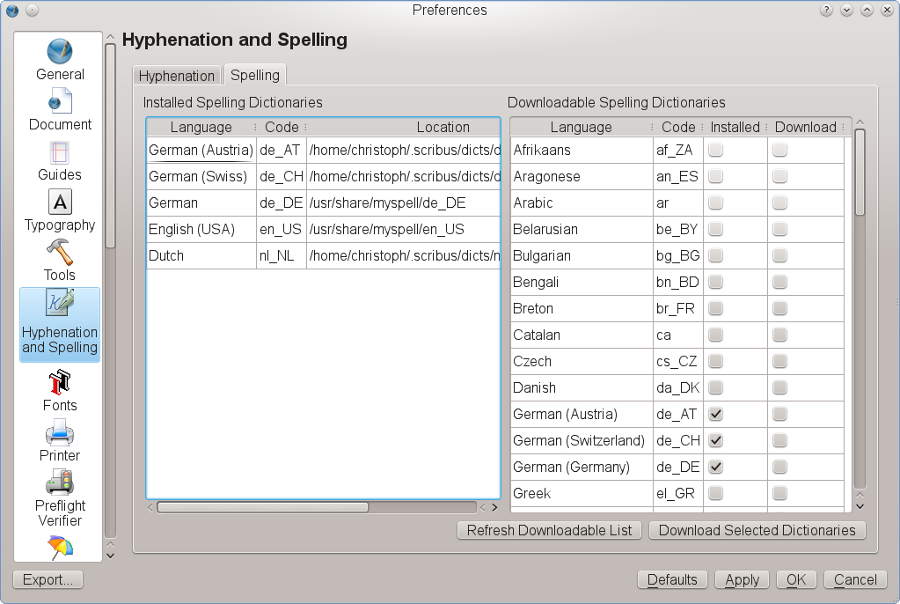
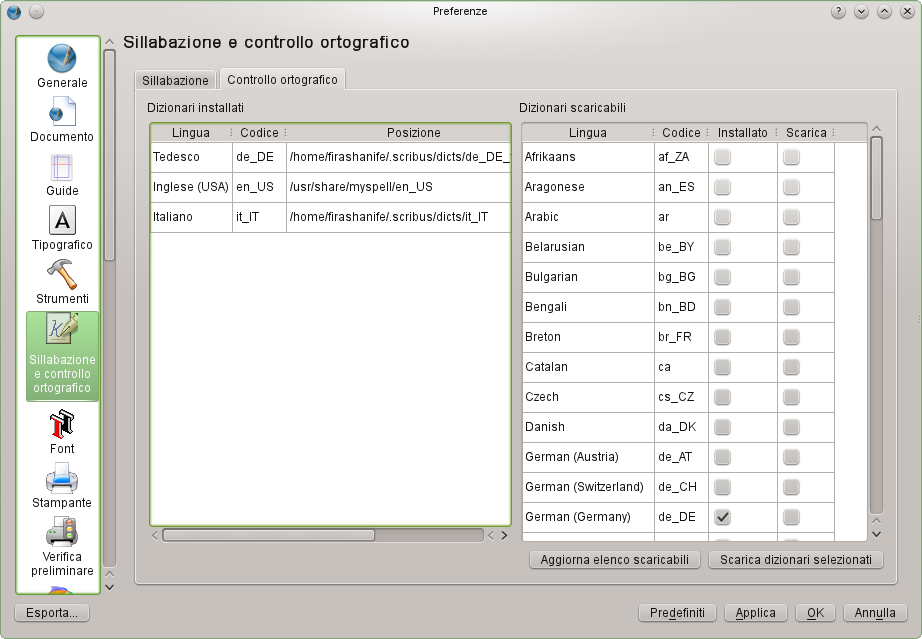
#12218: Italian screenshot updates for 1.4.4 documentation
git-svn-id: svn://scribus.net/branches/Version14x/Scribus@19042 11d20701-8431-0410-a711-e3c959e3b870

Changed region(s): [[0.0, 0.0, 1.0, 1.0]]

diff --git a/scribus/doc/it/editorial.html b/scribus/doc/it/editorial.html
@@ -11,7 +11,7 @@
 <h3>Traduzione italiana</h3>
 <p>La traduzione italiana non &egrave; completa, ma copre gran parte di ci&ograve; che serve sapere per l'utilizzo del programma. Quando possibile, anche le schermate in lingua inglese sono state sostituite da quelle corrispondenti in italiano. Negli altri casi sono state lasciate quelle originali.</p>
 <h3>Schermate</h3>
-<p>In questa guida in linea, le schermate in lingua italiana sono state create in ambiente XFCE&nbsp;4 su Fedora: quasi tutte quelle in lingua inglese sono state create in ambiente KDE&nbsp;4 su Fedora o su OpenSUSE. Le finestre di dialogo potrebbero avere un aspetto lievemente diverso su altri sistemi operativi o in altri ambienti desktop, ma, grazie all'uso del toolkit Qt, non dovrebbe esservi alcuna differenza nel loro funzionamento.</p>
+<p>In questa guida in linea, le schermate in lingua italiana sono state create in ambiente XFCE&nbsp;4 su Fedora o in ambiente KDE&nbsp;4 su OpenSUSE: quasi tutte quelle in lingua inglese sono state create in ambiente KDE&nbsp;4 su Fedora o su OpenSUSE. Le finestre di dialogo potrebbero avere un aspetto lievemente diverso su altri sistemi operativi o in altri ambienti desktop, ma, grazie all'uso del toolkit Qt, non dovrebbe esservi alcuna differenza nel loro funzionamento.</p>
 <h3>Tasti di scelta rapida</h3>
 <p>Salvo diversa indicazione esplicita, tutti i tasti di scelta rapida descritti in questa guida si riferiscono a tastiere per PC (Linux, UNIX, Windows, OS/2, eComStation).</p>
 <h3>File e directory</h3>
